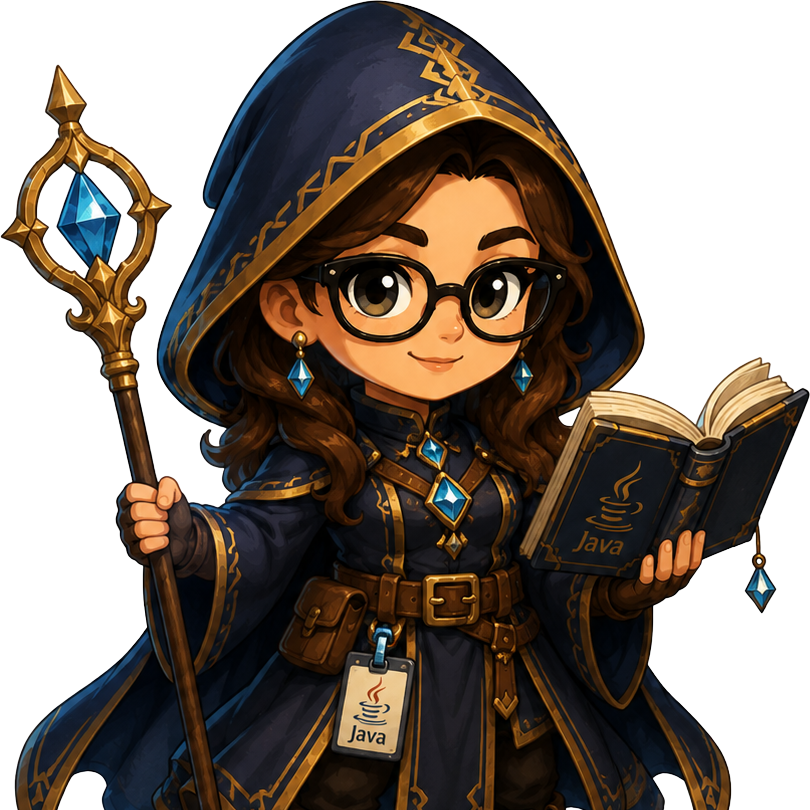
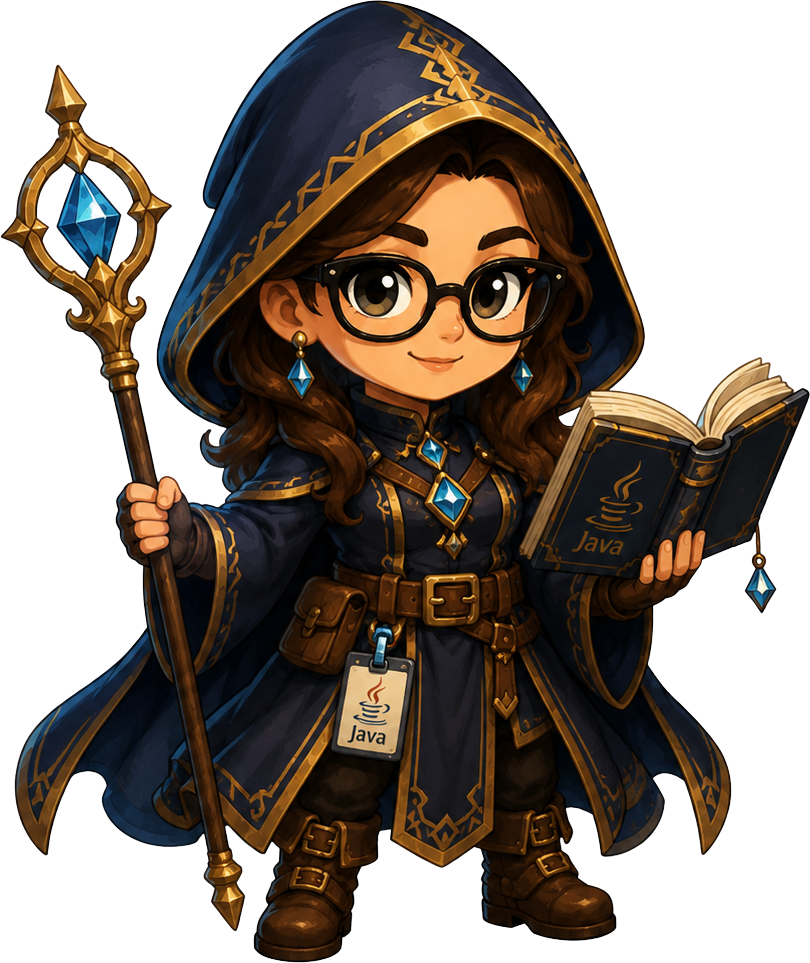
Mantém o corpo inteiro dos mascotes em vez de cortar para busto
O corte quadrado de busto (PR anterior) cortava as pernas dos três
personagens para caber numa caixa 96x96. Em vez de cortar o corpo,
volta a usar a arte completa (só remove a margem transparente ao
redor de cada personagem) e aumenta a altura da caixa do avatar de
96px para 144px nas três telas de aprendizado. Como a largura
continua sendo a dimensão limitante do object-contain nos três casos,
as alturas renderizadas ficam bem próximas entre si (111-118px),
mantendo o corpo inteiro visível e o tamanho aparente equivalente
entre Heracles, Égide e Aurora.

Claude-Session: https://claude.ai/code/session_01FqhUnRaS7cArycyL84iig3

diff --git a/src/components/game/LearningPath.tsx b/src/components/game/LearningPath.tsx
@@ -204,7 +204,7 @@ export const LearningPath = ({
 
               {/* Mascot image with clip-path to remove any background artifacts */}
               <motion.div
-                className="relative w-24 h-24 flex items-center justify-center"
+                className="relative w-24 h-36 flex items-center justify-center"
                 initial={{ scale: 0, rotate: -10 }}
                 animate={{ scale: 1, rotate: 0 }}
                 transition={{ type: "spring", stiffness: 200, damping: 15, delay: 0.3 }}

diff --git a/src/components/java/JavaLearningPath.tsx b/src/components/java/JavaLearningPath.tsx
@@ -208,7 +208,7 @@ export const JavaLearningPath = ({
               ))}
 
               <motion.div
-                className="relative w-24 h-24 flex items-center justify-center"
+                className="relative w-24 h-36 flex items-center justify-center"
                 initial={{ scale: 0, rotate: -10 }}
                 animate={{ scale: 1, rotate: 0 }}
                 transition={{ type: "spring", stiffness: 200, damping: 15, delay: 0.3 }}

diff --git a/src/components/qa/QaLearningPath.tsx b/src/components/qa/QaLearningPath.tsx
@@ -208,7 +208,7 @@ export const QaLearningPath = ({
               ))}
 
               <motion.div
-                className="relative w-24 h-24 flex items-center justify-center"
+                className="relative w-24 h-36 flex items-center justify-center"
                 initial={{ scale: 0, rotate: -10 }}
                 animate={{ scale: 1, rotate: 0 }}
                 transition={{ type: "spring", stiffness: 200, damping: 15, delay: 0.3 }}
